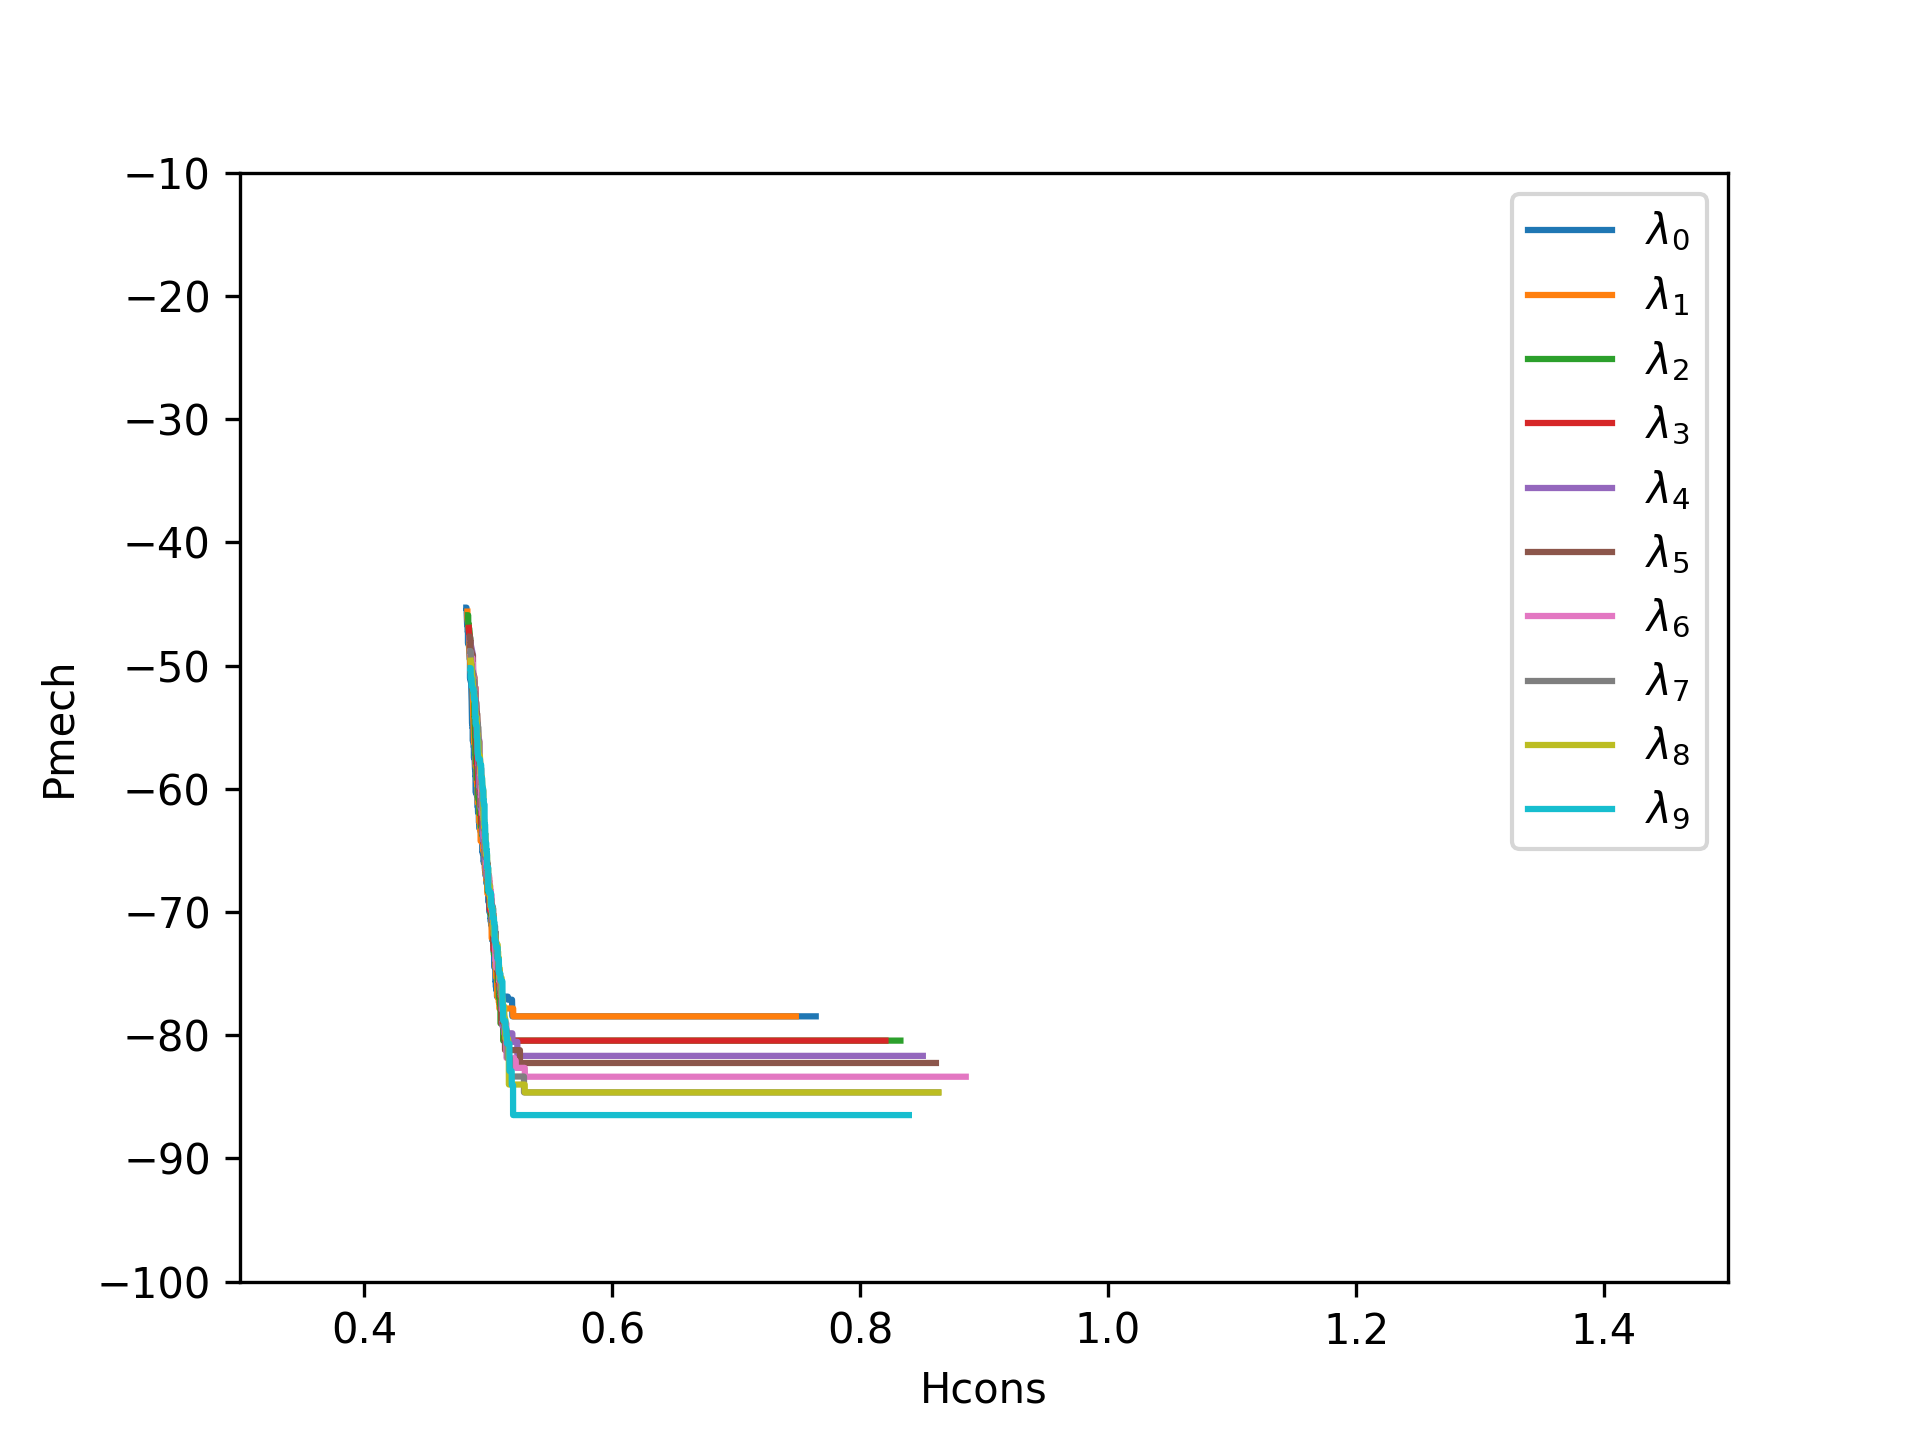
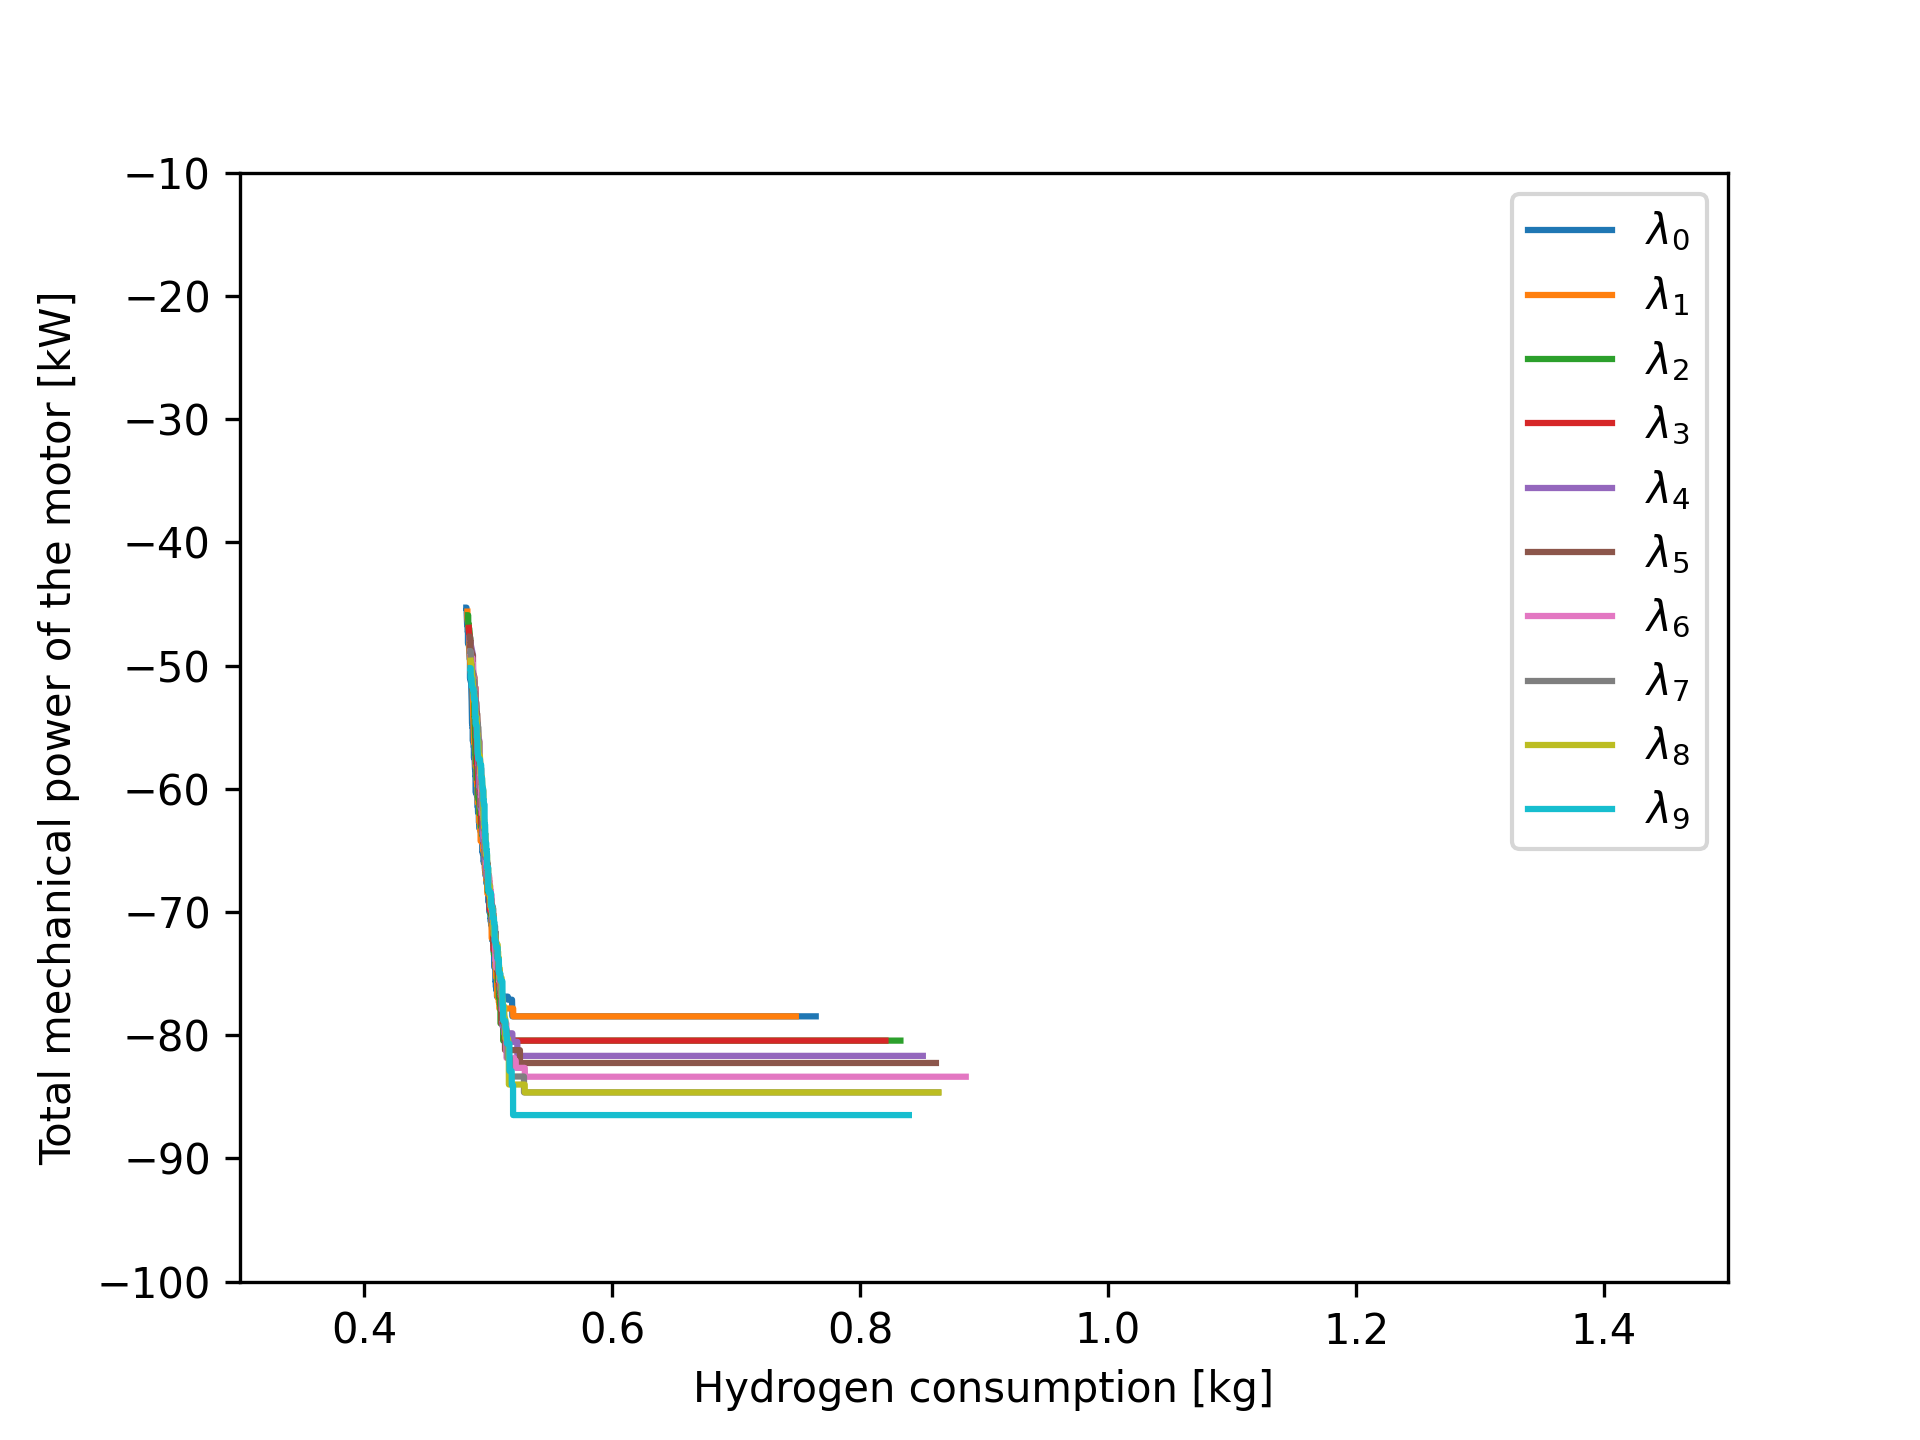
Modification 13/09/2023

diff --git a/MOEAAnalysis/Plot_nds.py b/MOEAAnalysis/Plot_nds.py
@@ -63,9 +63,9 @@ def plot3d(algorithm: str):
     ax.set_xlim(0.3, 1.5)
     ax.set_ylim(-100, -10)
     ax.set_zlim(1500, 2600)
-    ax.set_xlabel('Hcons')
-    ax.set_ylabel('Pmech')
-    ax.set_zlabel('Mass')
+    ax.set_xlabel('Hydrogen consumption [kg]')
+    ax.set_ylabel('Total mechanical power of the motor [kW]')
+    ax.set_zlabel('Total vehicle mass [kg]')
 
     ax.view_init(elev=20., azim=-35)
 
@@ -84,8 +84,8 @@ def plot2d(algorithm):
     ax.legend()
     ax.set_xlim(0.3, 1.5)
     ax.set_ylim(-100, -10)
-    ax.set_xlabel('Hcons')
-    ax.set_ylabel('Pmech')
+    ax.set_xlabel('Hydrogen consumption [kg]')
+    ax.set_ylabel('Total mechanical power of the motor [kW]')
 
     plt.show()
 
